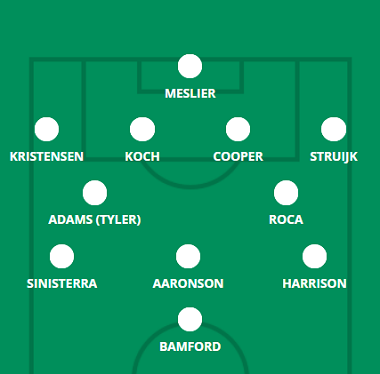
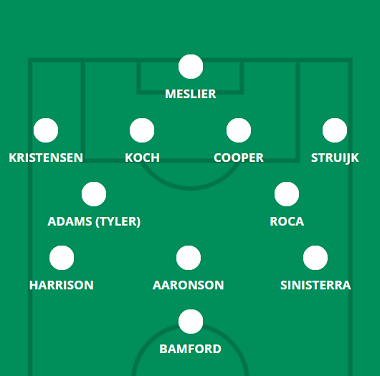
leeds e leicester

diff --git a/leicester.html b/leicester.html
@@ -68,7 +68,7 @@
             <hgroup>
                 <h1> Provável Escalação</h1>
                 <h2 class="direita"> por FabioVascão </h2>
-                <h3 class="direita"> Atualizado em 14/Outubro/2022 </h3>
+                <h3 class="direita"> Atualizado em 17/Outubro/2022 </h3>
             </hgroup>
     
             <h2 class="time"> <img src="_fotos/_logos/logoleicester.png" />Leicester</h2>
@@ -77,9 +77,9 @@
                     <img src="_fotos/_dinamicas/leicester.png" />
                 </figure>
             </aside>
-                <div class="escalacao"><h2 class="titulo">Ultimas Notícias</h2> <h4><p>Wilfred Ndidi (lesão na coxa), Ryan Bertrand (lesão no joelho) e Ricardo Pereira (lesão no tendão de aquiles) permanecem de fora, mas Timothy Castagne (olho) está em forma e Papy Mendy (lesão no joelho) e Dennis Praet (desconhecido) voltaram aos treinos depois de perder as sessões anteriores na semana. Uma nova preocupação é Jonny Evans, que Brendan Rodgers disse ter uma "panturrilha com problema", então Daniel Amartey estará de prontidão para substituir Caglar Soyuncu e Jannik Vestergaard continuarem sendo ignorados por seu gerente. Provavelmente não haverá muitas alterações em outros lugares, a menos que Rodgers mude de forma, com uma possibilidade de mudança para um 3-5-2, caso Evans perca. O chefe do Leicester está bem abastecido com opções de ataque na forma de Jamie Vardy e Kelechi Iheanacho, se ele for com dois no topo, e parece provável que haja rotação no ataque nas semanas 12 e 13, devido à reviravolta muito curta. Por enquanto, porém, com Daka marcando em jogos consecutivos, ele certamente tem a vantagem se uma única vaga estiver em jogo contra o Palace. Ayoze Perez e Marc Albrighton continuam sem tempo de jogo, apesar de muitos dos regulares da primeira equipe estarem em forma, enquanto Luke Thomas ainda está jogando como reserva de James Justin, apesar do último realmente trabalhar na lateral-esquerda.</p></h4><br>
-                    <h4><strong>Jogadores fora da próxima partida:</strong> Ricardo Pereira, Ndidi e Bertrand</h4><br><br>
-                    <h4><strong>Jogadores dúvidas:</strong> Mendy, Evans e Praet</h4>
+                <div class="escalacao"><h2 class="titulo">Ultimas Notícias</h2> <h4><p>Provavelmente não receberemos as últimas notícias do Leicester antes do prazo, mas Wilfred Ndidi (coxa), Ryan Bertrand (joelho) e Ricardo Pereira (Aquiles) permanecem de fora e Jonny Evans (panturrilha) parece improvável de aparecer, enquanto James Maddison serve um suspensão de uma partida por acúmulo de cartão amarelo após seu último cartão amarelo no sábado. Quem substitui Maddison é a grande questão, com os comentários pós-jogo de Rodgers no sábado sobre não ter "um ala desse lado" dificilmente um endosso de Ayoze Perez e do pouco envolvido Marc Albrighton. Perez começou nessa posição na 3° Rodada, então pode ser o pequeno favorito para obter o aceno, mas vimos Kelechi Iheanacho operar nesse papel na EFL Cup no início desta temporada, bem como Dennis Praet como meio-campista direito no passado. Uma mudança na formação para um 4-4-2 de diamantes ou um 3-5-2 também poderia ajudar a contornar a ausência de Maddison, com Iheanacho, Patson Daka e Jamie Vardy competindo por duas posições no topo, mas isso provavelmente seria à custa de um começo para Harvey Barnes. Praet e Nampalys Mendy são opções no meio-campo, caso Rodgers opte pelo formato de diamante. Na defesa, duas partidas sem sofrer golos em tantos jogos em casa provavelmente significam uma defesa inalterada, principalmente com Evans lutando pela forma física e Caglar Soyuncu e Jannik Vestergaard exilados.</p></h4><br>
+                    <h4><strong>Jogadores fora da próxima partida:</strong> Ricardo Pereira, Maddison, Ndidi e Bertrand</h4><br><br>
+                    <h4><strong>Jogadores dúvidas:</strong> Evans</h4>
                 </div> 
         </header>
         </article>

diff --git a/leeds.html b/leeds.html
@@ -68,7 +68,7 @@
             <hgroup>
                 <h1> Provável Escalação</h1>
                 <h2 class="direita"> por FabioVascão </h2>
-                <h3 class="direita"> Atualizado em 14/Outubro/2022 </h3>
+                <h3 class="direita"> Atualizado em 17/Outubro/2022 </h3>
             </hgroup>
     
             <h2 class="time"> <img src="_fotos/_logos/logoleeds.png" />Leeds</h2>
@@ -77,9 +77,9 @@
                     <img src="_fotos/_dinamicas/leeds.png" />
                 </figure>
             </aside>
-                <div class="escalacao"><h2 class="titulo">Ultimas Notícias</h2> <h4><p>Adam Forshaw (lesão no tornozelo), Leo Hjelde (apêndice), Archie Gray (lesão no pé) e Stuart Dallas (lesão no joelho) permanecem de fora, com todos exceto Dallas se aproximando do retorno à ação. Luis Sinisterra retorna depois de cumprir uma partida de suspensão e Junior Firpo está em forma depois de perder a derrota para o Crystal Palace por precaução, embora Jesse Marsch tenha confirmado que Pascal Struijk continuará sobre Firpo na lateral-esquerda neste fim de semana. Sinisterra provavelmente voltará direto para o lado para este jogo, no entanto, Rodrigo ou Patrick Bamford podem ter que abrir caminho para acomodar o colombiano em forma. Os quatro zagueiros e os dois meio-campistas parecem relativamente estáveis no momento, com a implantação contínua de Struijk na lateral-esquerda significando que Liam Cooper provavelmente continuará como zagueiro do lado esquerdo, apesar de sua má exibição na 10ª Rodada.</p></h4><br>
-                    <h4><strong>Jogadores fora da próxima partida:</strong> Dallas, Raphinha, Forshaw, Gray e Hjelde</h4><br><br>
-                    <h4><strong>Jogadores dúvidas:</strong> </h4>
+                <div class="escalacao"><h2 class="titulo">Ultimas Notícias</h2> <h4><p>Podemos não ter notícias de Jesse Marsch antes do prazo final da FPL de terça-feira, já que o Leeds não está em ação até quinta-feira e o pré-jogo do americano pode não ser realizado até o dia anterior ao jogo. Sabemos que Stuart Dallas (joelho) permanece fora a longo prazo, mas Adam Forshaw (tornozelo), Leo Hjelde (apêndice) e Archie Gray (pé) estavam todos se aproximando dos retornos da última vez que ouvimos, mesmo que a 12° Rodada pudesse chegar cedo demais. O Leeds teve um desempenho muito positivo contra o líder da liga, Arsenal no domingo, com apenas terminando de decepcioná-lo, e houve uma melhora definitiva depois que Patrick Bamford foi apresentado no topo para um difícil Rodrigo - mesmo que a prodigalidade do primeiro tenha custado caro. Marsch disse depois do tempo integral que Bamford estava a "entrar em forma" e que os blancos esperavam "desenvolver um ritmo com ele", mas, como sempre, é uma questão de saber se o avançado propenso a lesões está à altura do tempo de jogo, com os 90 minutos propositadamente divididos entre Rodrigo e Bamford no domingo devido ao esforço físico necessário em cima. Os quatro zagueiros e os dois meio-campistas de defesa parecem relativamente estáveis no momento, depois de começarem os três jogos juntos desde o intervalo internacional, enquanto os três meio-campistas atacantes também são as primeiras escolhas agora, com jogadores como Joe Gelhardt, Mateusz Klich e Crysencio Summerville tendo para se contentar com aparições tardias.</p></h4><br>
+                    <h4><strong>Jogadores fora da próxima partida:</strong> Dallas, Raphinha e Forshaw</h4><br><br>
+                    <h4><strong>Jogadores dúvidas:</strong>  Gray e Hjelde </h4>
                 </div> 
         </header>
         </article>
